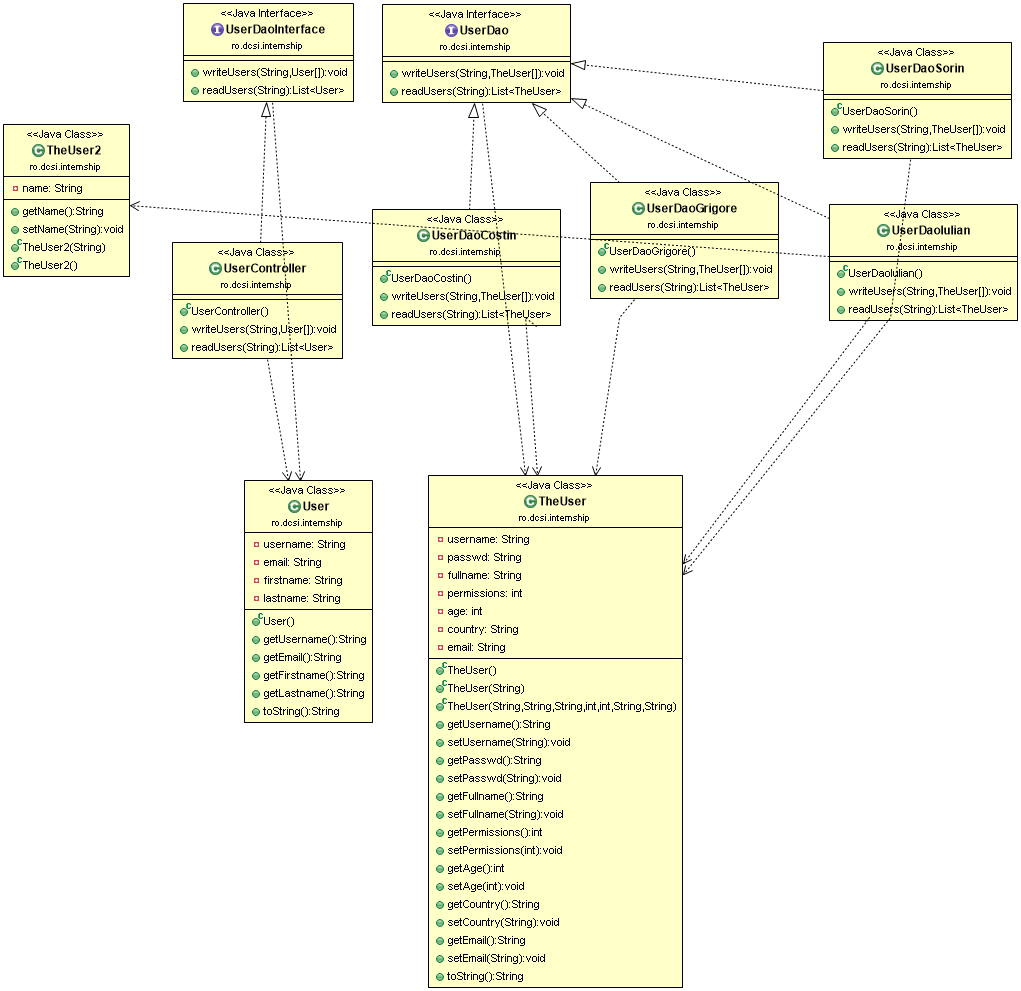
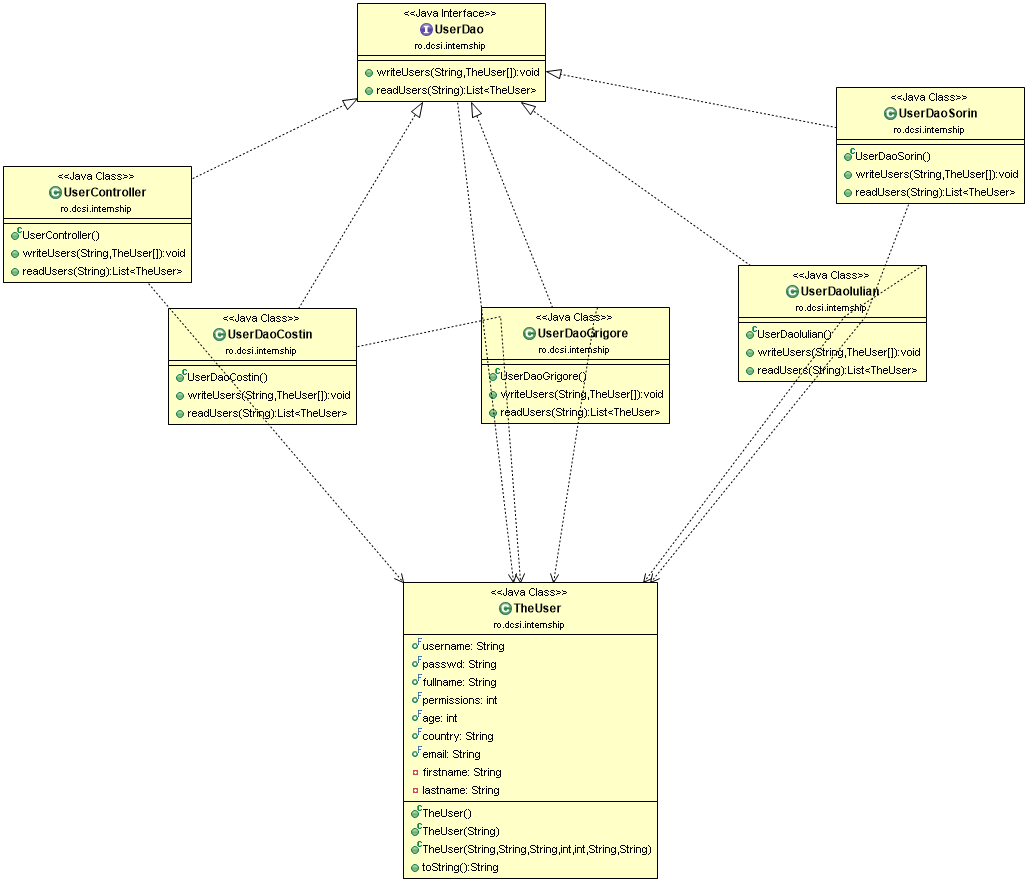
refactored

diff --git a/src/main/java/ro/dcsi/internship/TheUser.java b/src/main/java/ro/dcsi/internship/TheUser.java
@@ -3,65 +3,34 @@ package ro.dcsi.internship;
 import java.io.Serializable;
 import com.opencsv.bean.CsvBindByName;
 
+//case class TheUser(username:String, passwd:String)
+//new TheUser(passwd="a",username="b'")
+
+
 public class TheUser {
-
-  public static class Builder {
-    private String username;
-    private String passwd;
-    private String fullname;
-    private int permissions;
-    private int age;
-    private String country;
-    private String email;
-
-    public Builder setUsername(String username) {
-       //String a = TheUser.this.fullname;
-      this.username = username;
-      return this;
-    }
-    public Builder setPasswd(String passwd) {
-      this.passwd = passwd;
-      return this;
-    }
-    public Builder setFullname(String fullname) {
-      this.fullname = fullname;
-      return this;
-    }
-    public Builder setPermissions(int permissions) {
-      this.permissions = permissions;
-      return this;
-    }
-    public Builder setAge(int age) {
-      this.age = age;
-      return this;
-    }
-    public Builder setCountry(String country) {
-      this.country = country;
-      return this;
-    }
-    public Builder setEmail(String email) {
-      this.email = email;
-      return this;
-    }
-    public TheUser build() {
-      return new TheUser(username,passwd,fullname,permissions,age,country,email);
-    }
-  }
-
   @CsvBindByName
-  private final String username;
-  private final String passwd;
-  private final String fullname;
-  private final int permissions;
-  private final int age;
-  private final String country;
-  private final String email;
+  public final String username;
+  @CsvBindByName
+  public final String passwd;
+  @CsvBindByName
+  public final String fullname;
+  public final int permissions;
+  public final int age;
+  @CsvBindByName
+  public final String country;
+  @CsvBindByName
+  public final String email;
+  @CsvBindByName
+  private String firstname;
+  @CsvBindByName
+  private String lastname;
 
-  //needed by com.opencsv.CsvToBean
+  // needed by com.opencsv.CsvToBean
   @Deprecated
   public TheUser() {
     this("empty user");
   }
+
   public TheUser(String name) {
     this(name, "", "", 0, 0, "", "");
   }
@@ -77,61 +46,23 @@ public class TheUser {
     this.email = email;
   }
 
-  public String getUsername() {
-    return username;
-  }
-
-  public String getPasswd() {
-    return passwd;
-  }
-
-  public String getFullname() {
-    return fullname;
-  }
-
-  public int getPermissions() {
-    return permissions;
-  }
-
-  public int getAge() {
-    return age;
-  }
-
-  public String getCountry() {
-    return country;
-  }
-
-  public String getEmail() {
-    return email;
-  }
-
   public String toString() {
-    return "[" + getUsername() + "::" + getFullname() + "::" + getPermissions() + "::" + getPermissions() + "::"
-        + getEmail() + "]";
+    return "[" + username + "::" + fullname + "::" + permissions + "::" + permissions + "::" + email + "]";
   }
 
 }
-
-@SuppressWarnings("serial")
-class TheUser2 implements Serializable {
-  // private String id;
-  @CsvBindByName
-  private String name;
-  // private String email;
-
-  public String getName() {
-    return name;
-  }
-
-  public void setName(String name) {
-    this.name = name;
-  }
-
-  public TheUser2(String name) {
-    this.name = name;
-  }
-
-  public TheUser2() {
-    this.name = "NO_NAME";
-  }
-}
+//
+//@SuppressWarnings("serial")
+//class TheUser2 implements Serializable {
+//  // private String id;
+//  @CsvBindByName
+//  public final String name;
+//  // private String email;
+//
+//  public TheUser2() {
+//    this("NO_NAME");
+//  }
+//  public TheUser2(String name) {
+//    this.name = name;
+//  }
+//}

diff --git a/src/main/java/ro/dcsi/internship/UserController.java b/src/main/java/ro/dcsi/internship/UserController.java
@@ -15,16 +15,16 @@ import com.opencsv.bean.StatefulBeanToCsvBuilder;
 import com.opencsv.exceptions.CsvDataTypeMismatchException;
 import com.opencsv.exceptions.CsvRequiredFieldEmptyException;
 
-public class UserController implements UserDaoInterface {
+public class UserController implements UserDao {
 
   @Override
-  public void writeUsers(String file, User... users) {
+  public void writeUsers(String file,TheUser... users) {
     Writer writer;
 
     try {
       writer = new FileWriter(file);
       StatefulBeanToCsv beanToCsv = new StatefulBeanToCsvBuilder(writer).build();
-      beanToCsv.write(new ArrayList<User>(Arrays.asList(users)));
+      beanToCsv.write(new ArrayList<TheUser>(Arrays.asList(users)));
       writer.close();
     } catch (IOException | CsvDataTypeMismatchException | CsvRequiredFieldEmptyException e1) {
       e1.printStackTrace();
@@ -32,11 +32,11 @@ public class UserController implements UserDaoInterface {
   }
 
   @Override
-  public List<User> readUsers(String file) {
-    List<User> beans = null;
+  public List<TheUser> readUsers(String file) {
+    List<TheUser> beans = null;
 
     try {
-      beans = new CsvToBeanBuilder(new FileReader(file)).withType(User.class).build().parse();
+      beans = new CsvToBeanBuilder(new FileReader(file)).withType(TheUser.class).build().parse();
     } catch (IllegalStateException e) {
       e.printStackTrace();
     } catch (FileNotFoundException e) {

diff --git a/src/test/java/ro/dcsi/internship/AppTest.java b/src/test/java/ro/dcsi/internship/AppTest.java
@@ -14,12 +14,14 @@ public class AppTest {
   @Test
   public void testLiviu() {
     UserController controller = new UserController();
-    List<User> existingUsers = controller.readUsers(resources + "users.csv");
-    User[] users = new User[existingUsers.size()];
+    List<TheUser> existingUsers = controller.readUsers(resources + "users.csv");
+    Assert.assertEquals(8,existingUsers.size());
+    
+    TheUser[] users = new TheUser[existingUsers.size()];
 
     controller.writeUsers(target + "tempUsers", existingUsers.toArray(users));
 
-    List<User> tempUsers = controller.readUsers(target + "tempUsers");
+    List<TheUser> tempUsers = controller.readUsers(target + "tempUsers");
 
     Assert.assertEquals(existingUsers.size(), tempUsers.size());
 
@@ -53,7 +55,7 @@ public class AppTest {
     app.writeUsers(target + "file2", new TheUser("2"));
     Assert.assertEquals(2, app.readUsers(target + "file1").size());
     Assert.assertEquals(1, app.readUsers(target + "file2").size());
-    Assert.assertEquals("2", app.readUsers(target + "file2").get(0).getUsername());
+    Assert.assertEquals("2", app.readUsers(target + "file2").get(0).username);
   }
 
   @Test

diff --git a/src/main/java/ro/dcsi/internship/UserBuilder.java b/src/main/java/ro/dcsi/internship/UserBuilder.java
@@ -1,0 +1,44 @@
+package ro.dcsi.internship;
+
+public class UserBuilder {
+  private String username;
+  private String passwd;
+  private String fullname;
+  private int permissions;
+  private int age;
+  private String country;
+  private String email;
+
+  public UserBuilder setUsername(String username) {
+     //String a = TheUser.this.fullname;
+    this.username = username;
+    return this;
+  }
+  public UserBuilder setPasswd(String passwd) {
+    this.passwd = passwd;
+    return this;
+  }
+  public UserBuilder setFullname(String fullname) {
+    this.fullname = fullname;
+    return this;
+  }
+  public UserBuilder setPermissions(int permissions) {
+    this.permissions = permissions;
+    return this;
+  }
+  public UserBuilder setAge(int age) {
+    this.age = age;
+    return this;
+  }
+  public UserBuilder setCountry(String country) {
+    this.country = country;
+    return this;
+  }
+  public UserBuilder setEmail(String email) {
+    this.email = email;
+    return this;
+  }
+  public TheUser build() {
+    return new TheUser(username,passwd,fullname,permissions,age,country,email);
+  }
+}

diff --git a/src/main/java/ro/dcsi/internship/UserDaoSorin.java b/src/main/java/ro/dcsi/internship/UserDaoSorin.java
@@ -24,8 +24,8 @@ public class UserDaoSorin implements UserDao {
 //      }
       List<String[]> data = new ArrayList<>();
       for (TheUser u : users) {
-        data.add(new String[] { u.getUsername(), u.getPasswd(), u.getFullname(), Integer.toString(u.getPermissions()),
-            Integer.toString(u.getAge()), u.getCountry(), u.getEmail() });
+        data.add(new String[] { u.username, u.passwd, u.fullname, Integer.toString(u.permissions),
+            Integer.toString(u.age), u.country, u.email });
       }
 
       writer.writeAll(data);
@@ -42,7 +42,7 @@ public class UserDaoSorin implements UserDao {
       CSVReader reader = new CSVReader(new FileReader(file), ',');
       String[] buff = null;
       while ((buff = reader.readNext()) != null) {
-        TheUser u = new TheUser.Builder().setUsername(buff[0])
+        TheUser u = new UserBuilder().setUsername(buff[0])
         .setUsername(buff[0])
         .setPasswd(buff[1])
         .setFullname(buff[2])

diff --git a/src/main/java/ro/dcsi/internship/UserDaoGrigore.java b/src/main/java/ro/dcsi/internship/UserDaoGrigore.java
@@ -22,7 +22,7 @@ public class UserDaoGrigore implements UserDao {
       CSVWriter writer = new CSVWriter(new FileWriter(csvFile));
       for (TheUser user : users) {
         record = new String[1];
-        record[0] = user.getUsername();
+        record[0] = user.username;
 
         writer.writeNext(record);
       }
